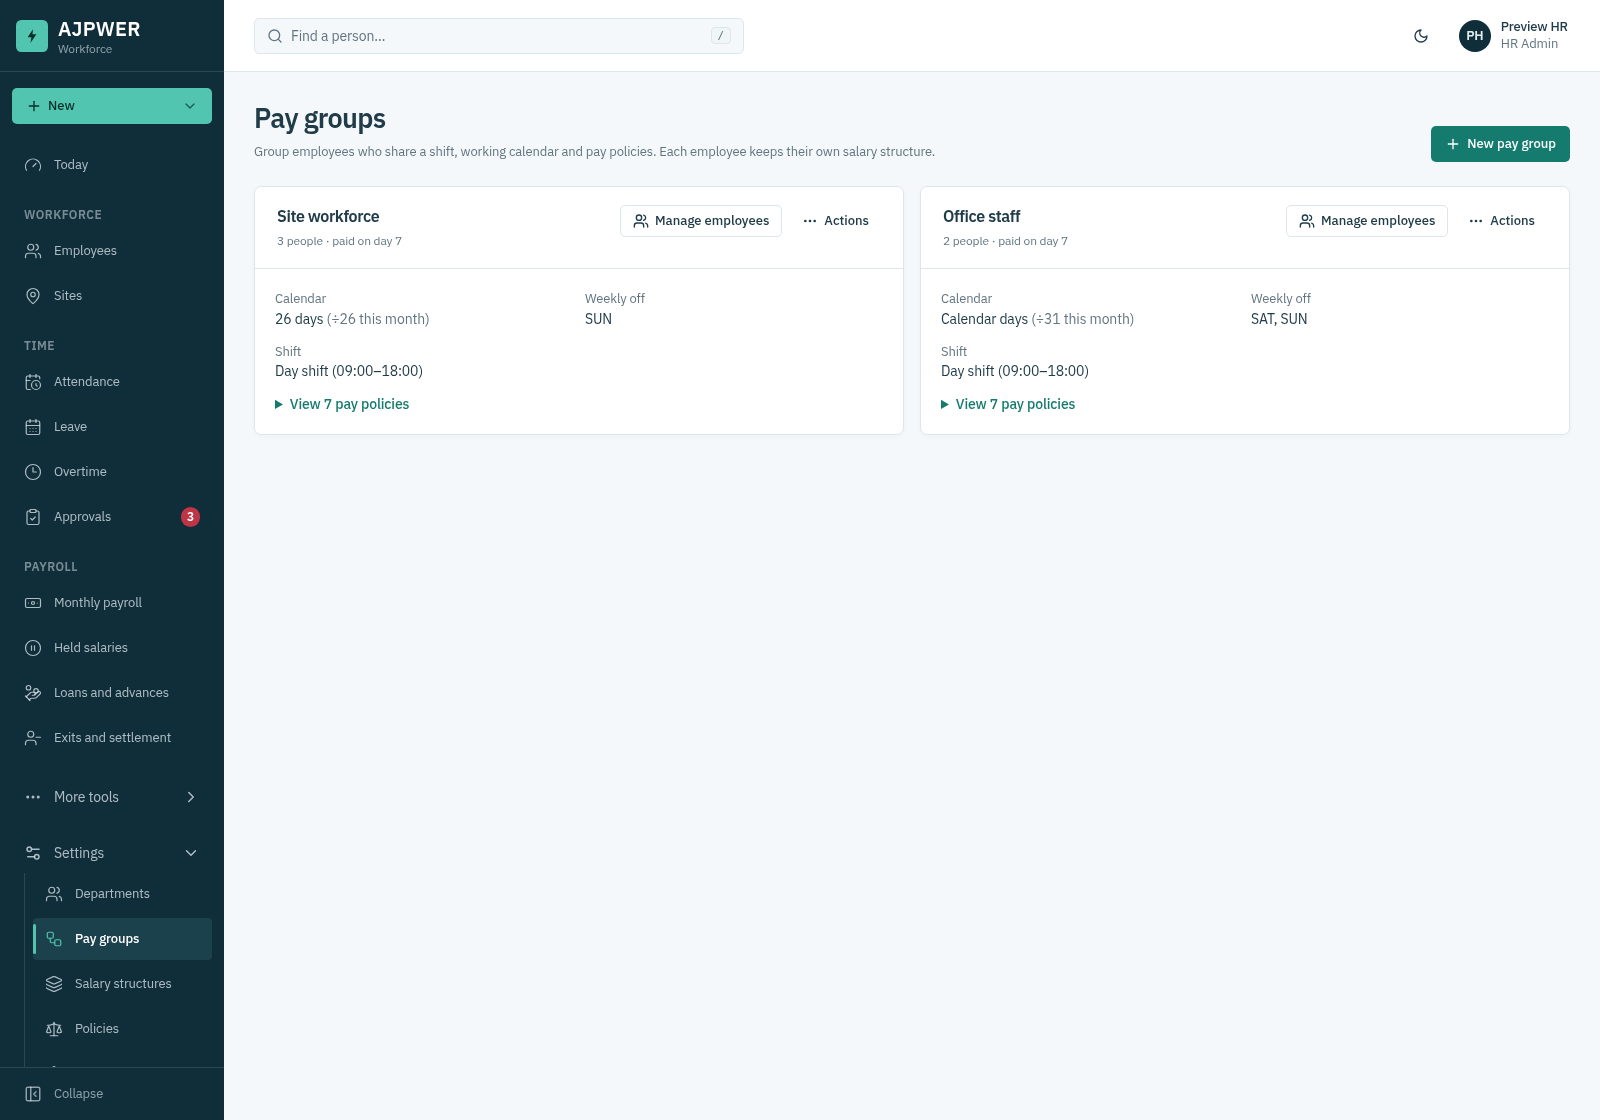
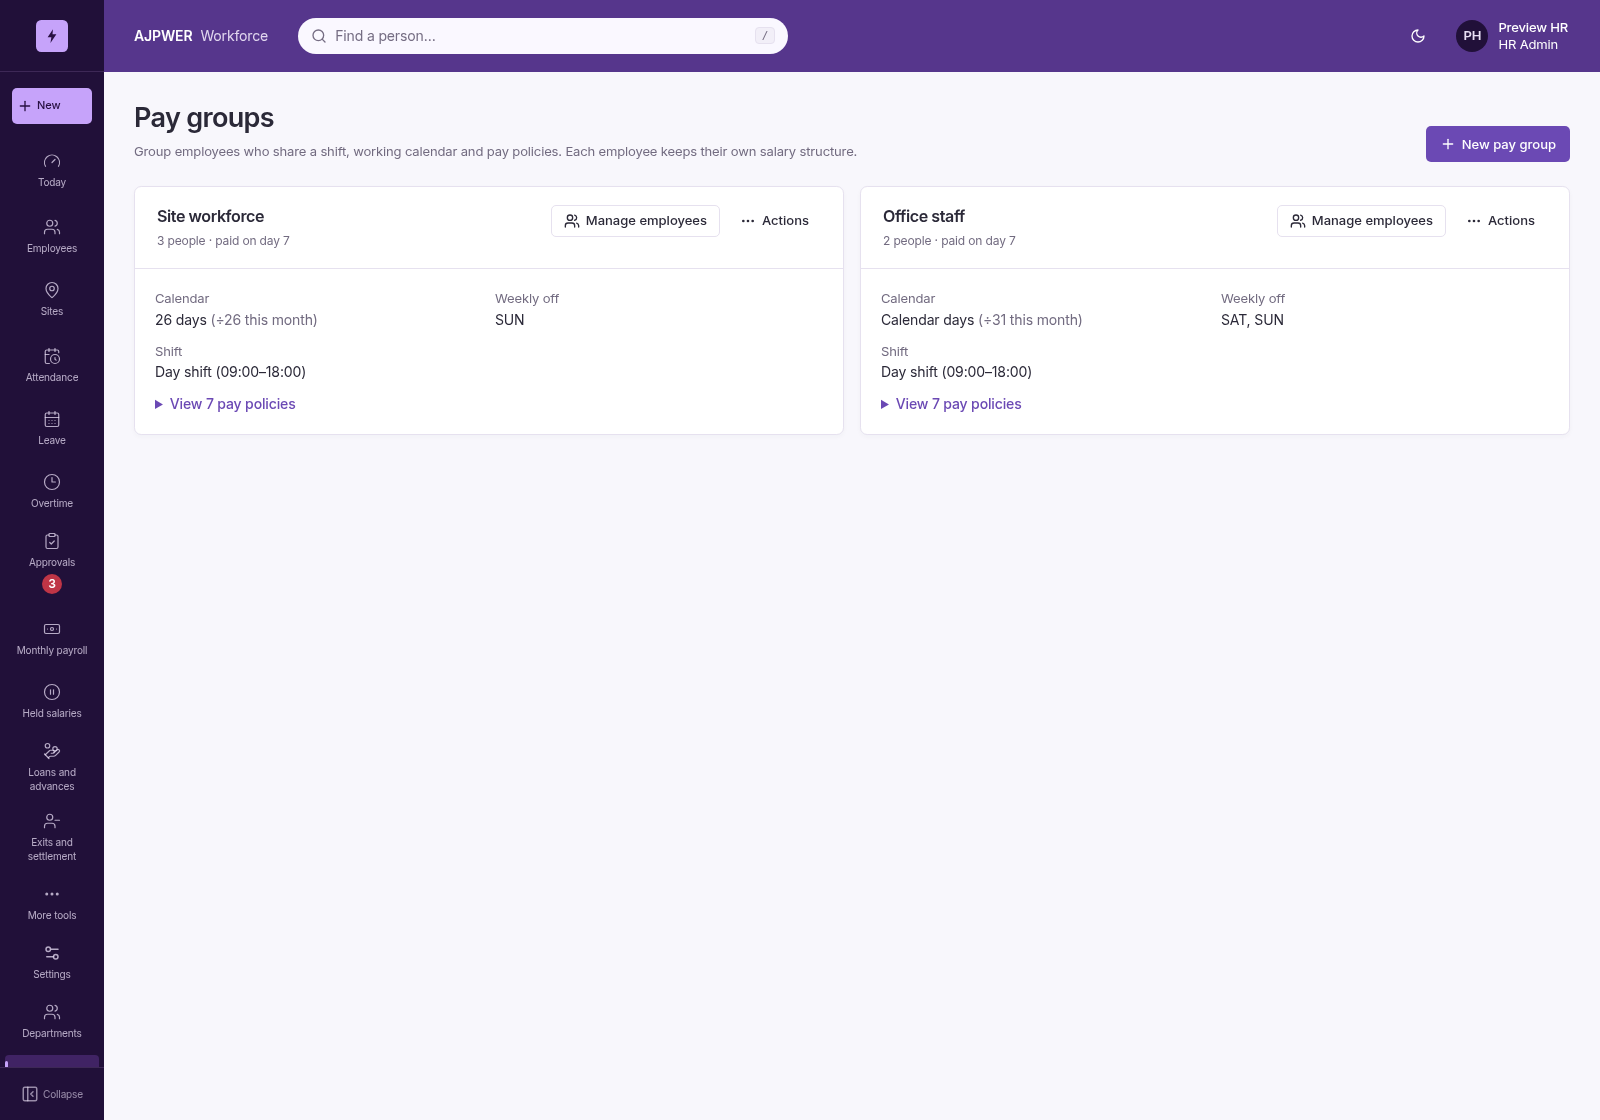
Add violet interface with compact navigation and full preview gallery

diff --git a/docs/design/interface-preview/index.html b/docs/design/interface-preview/index.html
@@ -1,1 +1,1 @@
-<!doctype html><html lang="en"><meta charset="utf-8"><meta name="viewport" content="width=device-width,initial-scale=1"><title>Option A · navy and teal</title><style>body{margin:32px;font:15px system-ui;background:#f3f5f8;color:#243541}main{max-width:1600px;margin:auto}img{width:100%;border:1px solid #dde2e9;border-radius:8px}section{margin:40px 0}h2{font-size:20px}p{line-height:1.6}</style><main><h1>Option A · navy and teal</h1><p>Actual frontend screens with fictional records. Default branch remains unchanged.</p><section><h2>Employees</h2><a href="employees.png"><img src="employees.png" alt="employees" loading="lazy"></a></section><section><h2>Pay Groups</h2><a href="pay-groups.png"><img src="pay-groups.png" alt="pay-groups" loading="lazy"></a></section><section><h2>Payroll Dark</h2><a href="payroll-dark.png"><img src="payroll-dark.png" alt="payroll-dark" loading="lazy"></a></section><section><h2>Payroll Draft</h2><a href="payroll-draft.png"><img src="payroll-draft.png" alt="payroll-draft" loading="lazy"></a></section><section><h2>Payroll Generated</h2><a href="payroll-generated.png"><img src="payroll-generated.png" alt="payroll-generated" loading="lazy"></a></section><section><h2>Payroll Phone</h2><a href="payroll-phone.png"><img src="payroll-phone.png" alt="payroll-phone" loading="lazy"></a></section><section><h2>Payroll Tablet</h2><a href="payroll-tablet.png"><img src="payroll-tablet.png" alt="payroll-tablet" loading="lazy"></a></section><section><h2>Salary Structures</h2><a href="salary-structures.png"><img src="salary-structures.png" alt="salary-structures" loading="lazy"></a></section><section><h2>Salary</h2><a href="salary.png"><img src="salary.png" alt="salary" loading="lazy"></a></section><section><h2>Site Overview</h2><a href="site-overview.png"><img src="site-overview.png" alt="site-overview" loading="lazy"></a></section><section><h2>Site Wages</h2><a href="site-wages.png"><img src="site-wages.png" alt="site-wages" loading="lazy"></a></section></main></html>
+<!doctype html><html lang="en"><meta charset="utf-8"><meta name="viewport" content="width=device-width,initial-scale=1"><title>Violet · compact navigation</title><style>body{margin:32px;font:15px system-ui;background:#f3f5f8;color:#243541}main{max-width:1600px;margin:auto}img{width:100%;border:1px solid #dde2e9;border-radius:8px}section{margin:40px 0}h2{font-size:20px}p{line-height:1.6}</style><main><h1>Violet · compact navigation</h1><p>Actual frontend screens with fictional records. Default branch remains unchanged.</p><section><h2>Employees</h2><a href="employees.png"><img src="employees.png" alt="employees" loading="lazy"></a></section><section><h2>Pay Groups</h2><a href="pay-groups.png"><img src="pay-groups.png" alt="pay-groups" loading="lazy"></a></section><section><h2>Payroll Dark</h2><a href="payroll-dark.png"><img src="payroll-dark.png" alt="payroll-dark" loading="lazy"></a></section><section><h2>Payroll Draft</h2><a href="payroll-draft.png"><img src="payroll-draft.png" alt="payroll-draft" loading="lazy"></a></section><section><h2>Payroll Generated</h2><a href="payroll-generated.png"><img src="payroll-generated.png" alt="payroll-generated" loading="lazy"></a></section><section><h2>Payroll Phone</h2><a href="payroll-phone.png"><img src="payroll-phone.png" alt="payroll-phone" loading="lazy"></a></section><section><h2>Payroll Tablet</h2><a href="payroll-tablet.png"><img src="payroll-tablet.png" alt="payroll-tablet" loading="lazy"></a></section><section><h2>Salary Structures</h2><a href="salary-structures.png"><img src="salary-structures.png" alt="salary-structures" loading="lazy"></a></section><section><h2>Salary</h2><a href="salary.png"><img src="salary.png" alt="salary" loading="lazy"></a></section><section><h2>Site Overview</h2><a href="site-overview.png"><img src="site-overview.png" alt="site-overview" loading="lazy"></a></section><section><h2>Site Wages</h2><a href="site-wages.png"><img src="site-wages.png" alt="site-wages" loading="lazy"></a></section></main></html>

diff --git a/frontend/src/components/payroll/CostChart.jsx b/frontend/src/components/payroll/CostChart.jsx
@@ -1,22 +1,24 @@
 import { Bar, ComposedChart, Line, ResponsiveContainer, Tooltip, XAxis, YAxis, CartesianGrid } from 'recharts';
 import { inr, monthLabel } from '@/utils';
+import { EmptyState } from '@/components/states';
 import { tooltipStyle } from '@/components/charts';
 
 export function PayrollCostChart({ bars }) {
   const rows = bars.map(({ m, t }) => ({ month: monthLabel(m).slice(0, 3), period: monthLabel(m), ...(t ? { net: t.net, deductions: t.deductions, employer: t.employer, people: t.headcount } : {}) }));
+  if (!bars.some(b => b.t)) return <div className="flex min-h-72 items-center justify-center px-6"><EmptyState title={bars.some(b => b.failed) ? 'Payroll cost is unavailable' : 'No generated payrolls in these six months'} body={bars.some(b => b.failed) ? 'Retry the unavailable month below.' : 'Costs will appear here after payroll has been generated.'} /></div>;
   return <figure className="relative" aria-label="Six months of payroll cost and employee count">
     <div className="payroll-cost-chart">
       <ResponsiveContainer width="100%" height="100%">
         <ComposedChart data={rows} margin={{ top: 15, left: 5, right: 0, bottom: 5 }}>
           <CartesianGrid vertical={false} stroke="var(--border)" />
           <XAxis dataKey="month" tick={{ fontSize: 11, fill: 'var(--muted-foreground)' }} tickLine={false} axisLine={false} />
-          <YAxis yAxisId="cost" width={55} tick={{ fontSize: 10, fill: 'var(--muted-foreground)' }} tickFormatter={v => `${(v / 100 / 1e5).toFixed(0)}L`} tickLine={false} axisLine={false} />
+          <YAxis yAxisId="cost" width={55} tick={{ fontSize: 10, fill: 'var(--muted-foreground)' }} tickFormatter={v => `${(v / 100 / 1e5).toFixed(1).replace(/\.0$/, '')}L`} tickLine={false} axisLine={false} />
           <YAxis yAxisId="people" orientation="right" width={35} allowDecimals={false} domain={[0, value => Math.max(5, Math.ceil(value * 1.2))]} tick={{ fontSize: 10, fill: 'var(--muted-foreground)' }} tickLine={false} axisLine={false} />
           <Tooltip {...tooltipStyle} labelFormatter={(_, payload) => payload?.[0]?.payload.period ?? ''} formatter={(value, name) => [name === 'Employee count' ? value : inr(value), name]} />
-          <Bar yAxisId="cost" dataKey="net" name="Net pay" stackId="cost" fill="var(--chart-1)" maxBarSize={64} />
-          <Bar yAxisId="cost" dataKey="deductions" name="Employee deductions" stackId="cost" fill="var(--chart-2)" maxBarSize={64} />
-          <Bar yAxisId="cost" dataKey="employer" name="Company contributions" stackId="cost" fill="var(--chart-3)" radius={[6, 6, 0, 0]} maxBarSize={64} />
-          <Line yAxisId="people" dataKey="people" name="Employee count" stroke="var(--chart-4)" strokeWidth={2} dot={{ r: 3, stroke: 'var(--card)', strokeWidth: 1 }} connectNulls={false} />
+          <Bar isAnimationActive={false} yAxisId="cost" dataKey="net" name="Net pay" stackId="cost" fill="var(--chart-1)" maxBarSize={64} />
+          <Bar isAnimationActive={false} yAxisId="cost" dataKey="deductions" name="Employee deductions" stackId="cost" fill="var(--chart-2)" maxBarSize={64} />
+          <Bar isAnimationActive={false} yAxisId="cost" dataKey="employer" name="Company contributions" stackId="cost" fill="var(--chart-3)" radius={[6, 6, 0, 0]} maxBarSize={64} />
+          <Line isAnimationActive={false} yAxisId="people" dataKey="people" name="Employee count" stroke="var(--chart-4)" strokeWidth={2} dot={{ r: 3, stroke: 'var(--card)', strokeWidth: 1 }} connectNulls={false} />
         </ComposedChart>
       </ResponsiveContainer>
     </div>

diff --git a/frontend/index.html b/frontend/index.html
@@ -1,9 +1,9 @@
 <!doctype html>
-<html lang="en" data-interface="option-a">
+<html lang="en" data-interface="violet">
   <head>
     <meta charset="UTF-8" />
     <meta name="viewport" content="width=device-width, initial-scale=1.0, viewport-fit=cover" />
-    <meta name="theme-color" content="#16243a" />
+    <meta name="theme-color" content="#56368c" />
     <title>AJPWER Workforce</title>
     <link rel="icon" href="/favicon.svg" type="image/svg+xml" />
     <script>

diff --git a/docs/design/interface-preview/README.md b/docs/design/interface-preview/README.md
@@ -1,4 +1,4 @@
-# Option A · navy and teal
+# Violet · compact navigation
 
 Working frontend alternative based on default commit `6d8b9e8`. Do not merge into the default branch until the design is chosen.
 
